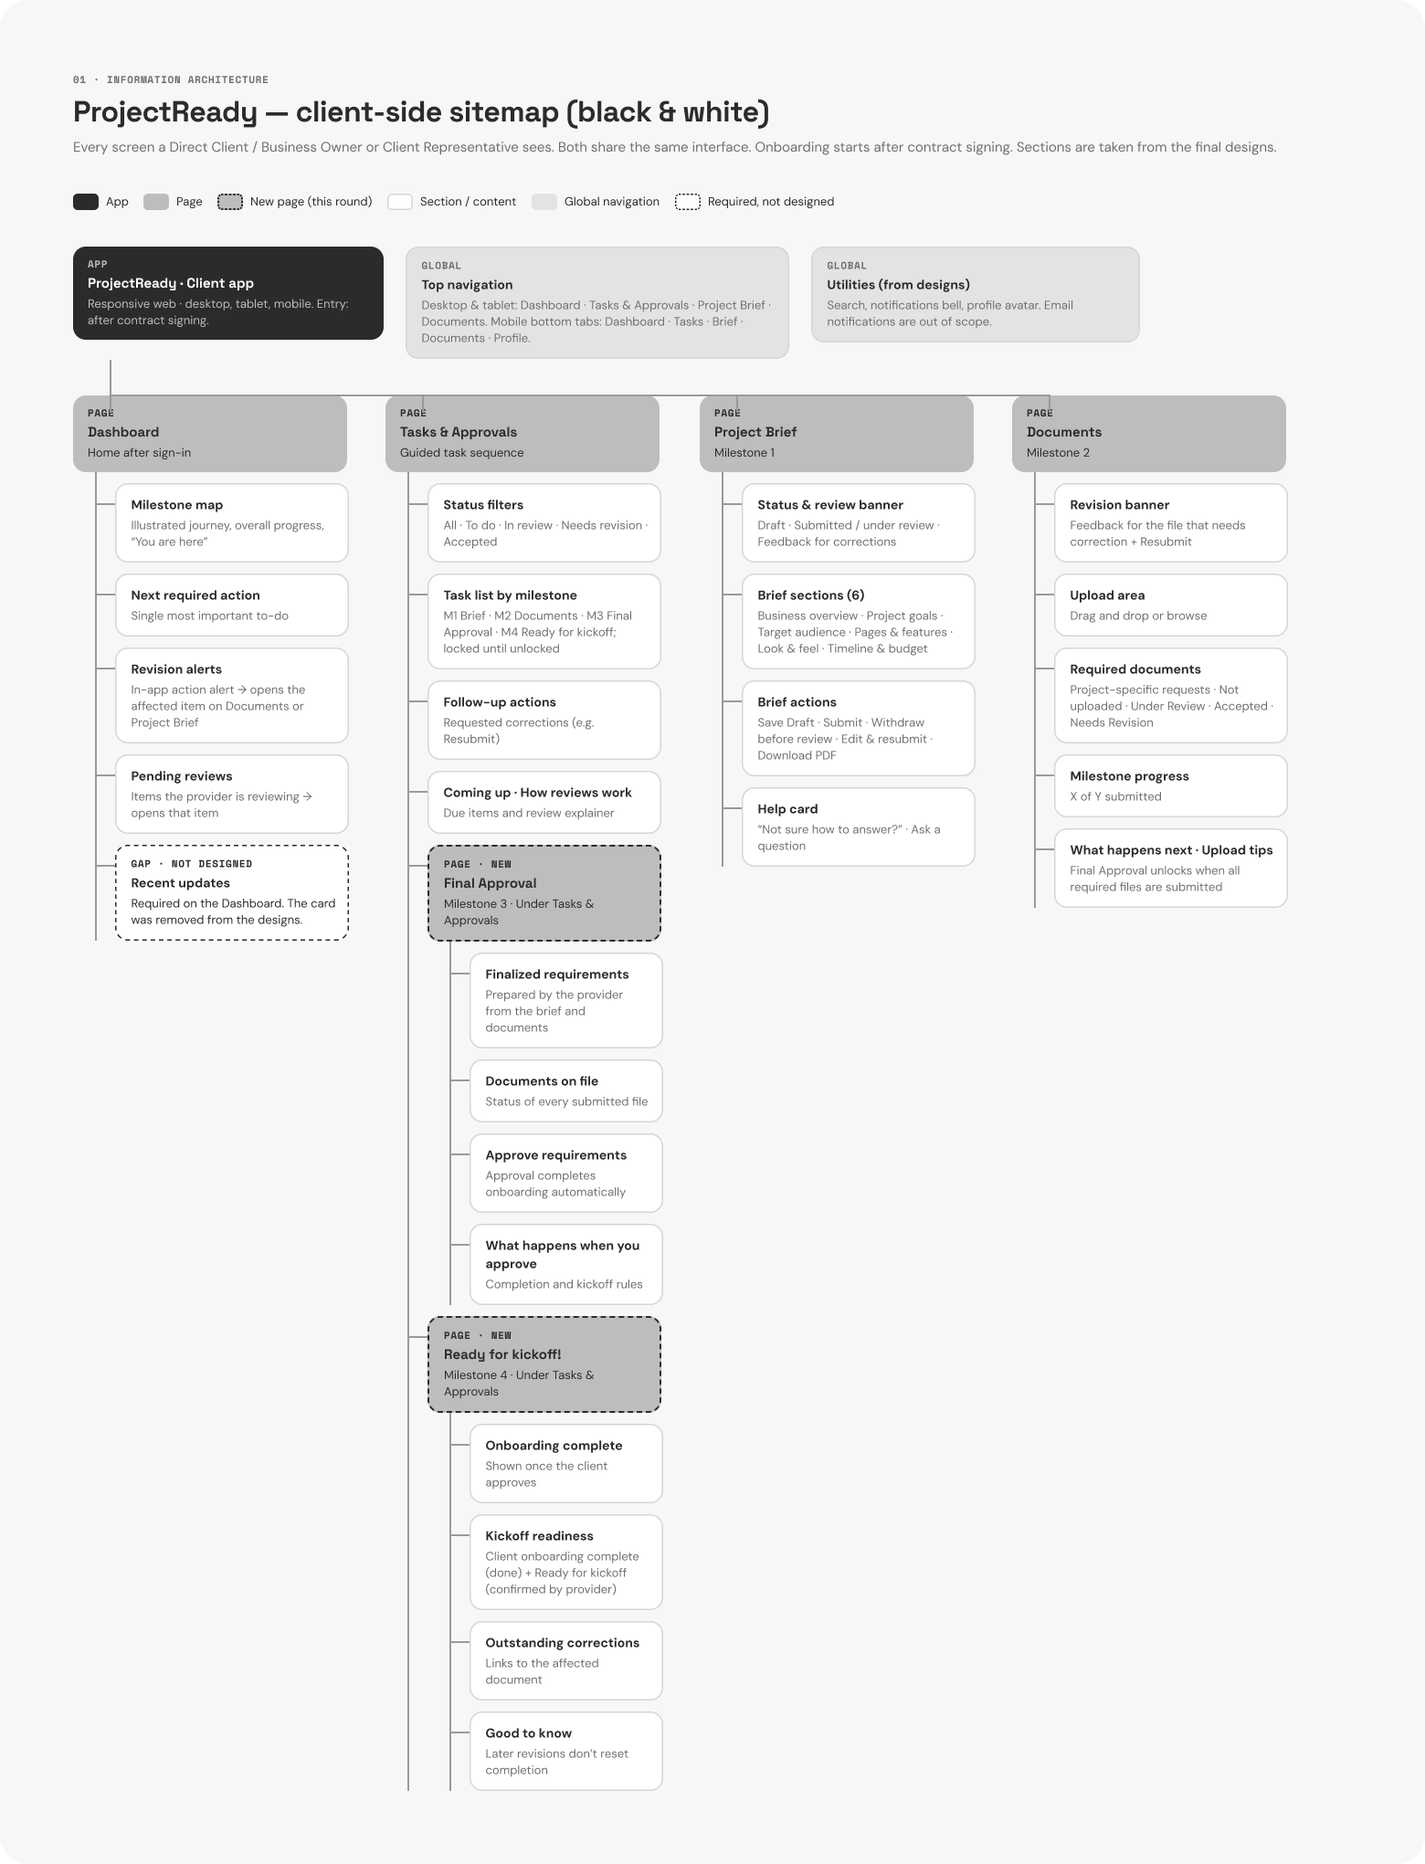
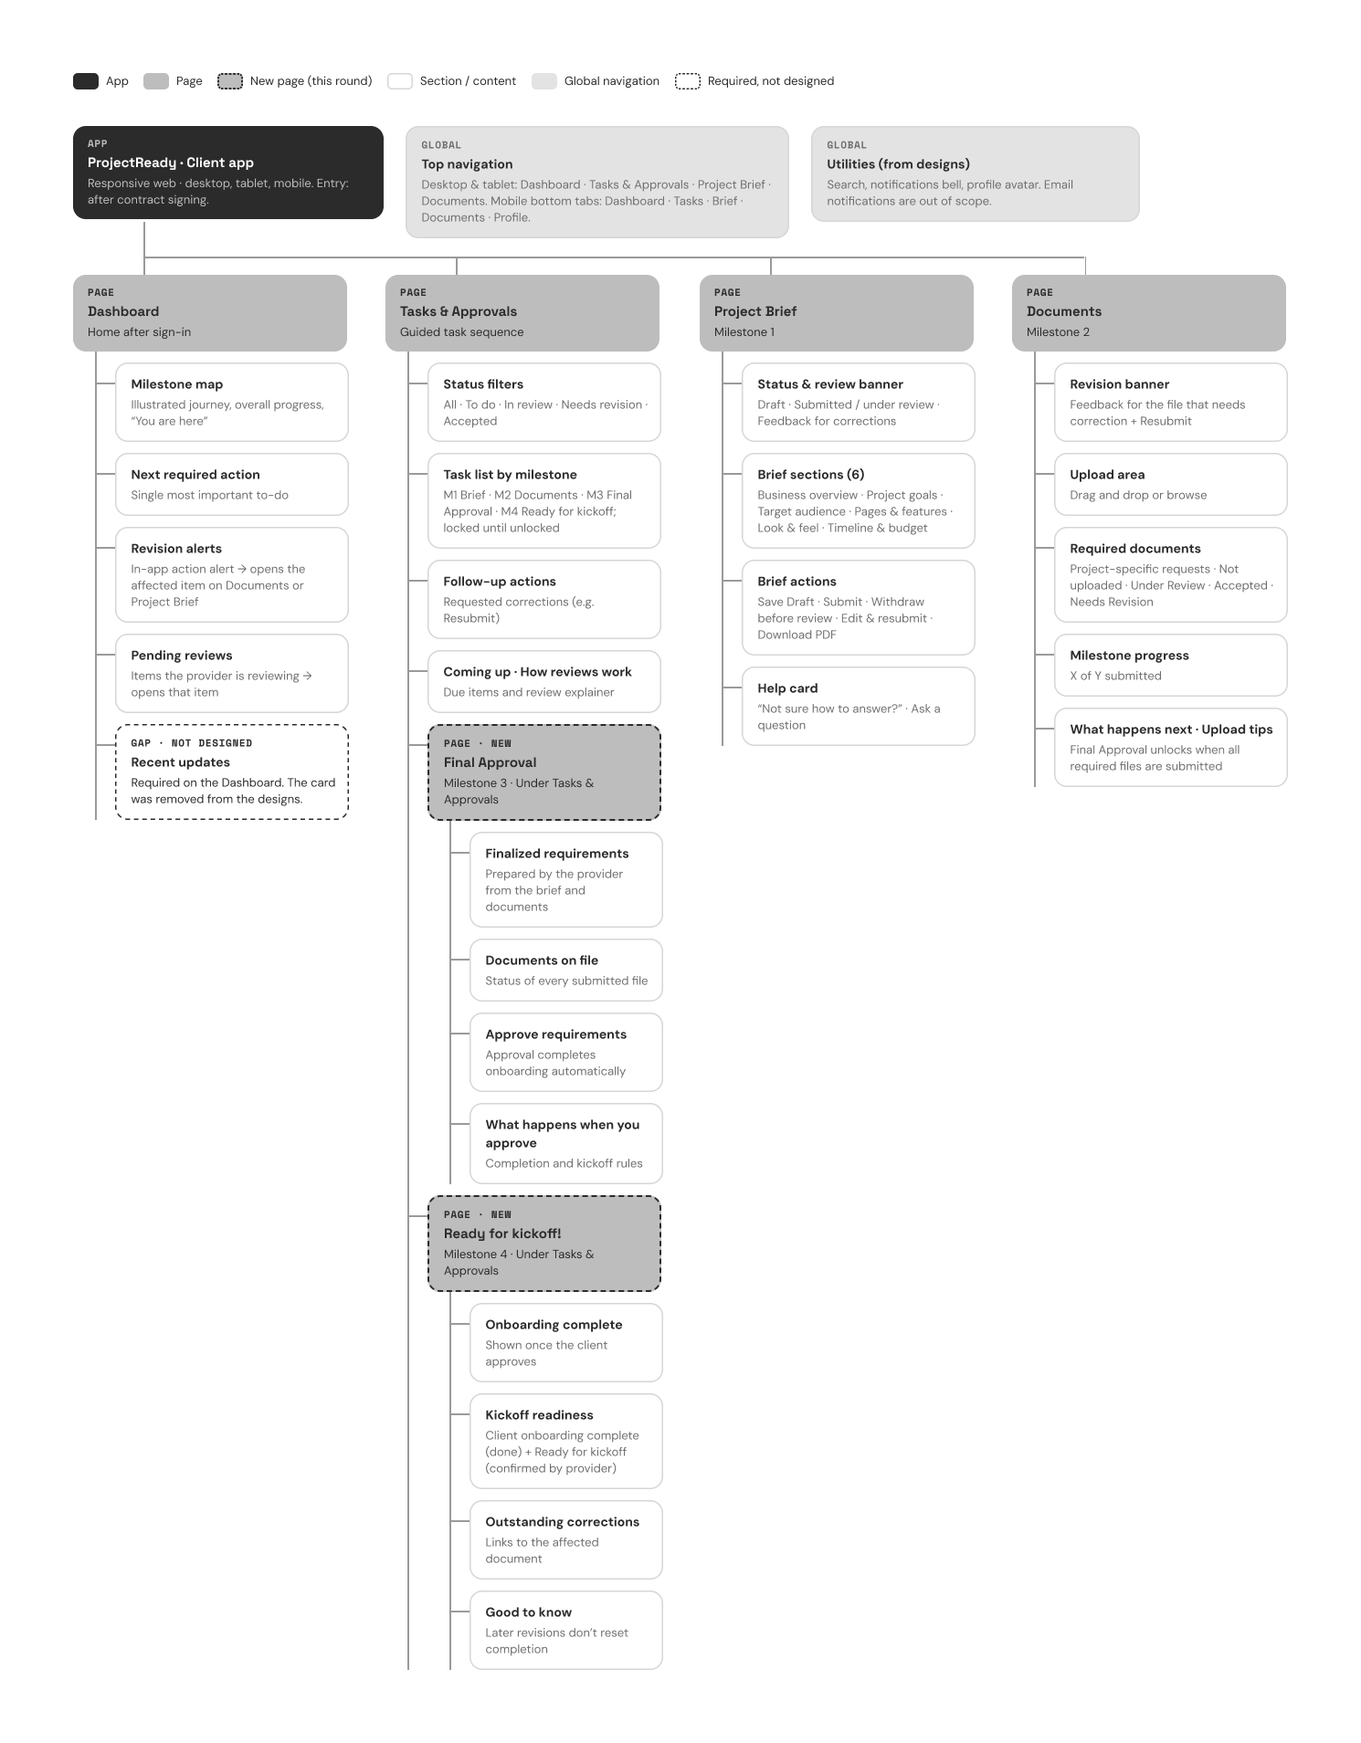
style: update page content, images, and layout

Changed region(s): [[0.0309, 0.0309, 0.957, 0.9581], [0.8336, 0.0618, 0.8953, 0.0927]]

diff --git a/uiuxfolio/pages/casestudy3.html b/uiuxfolio/pages/casestudy3.html
@@ -1,18 +1,15 @@
 <div class="container">
   <!-- Top Row -->
   <div class="row align-items-center mb-5">
-    <div class="col-md-5 hero-text">
+    <div class="col-md-5 col-lg-4 hero-text">
       <a href="#" class="btn btn-outline-secondary mb-3 rounded-0 custom-hover-btn" onclick="location.reload()">←
         Back</a>
-      <h2 class="mt-4">Agrilakal – </br> from the farm, straight to the buyer</h2>
-      <p class="mt-5 mb-5">
-        A farmer-first marketplace. It <span class="text-highlight">connects Philippine growers, buyers, distributors
-          and the government, from harvest listing to verified delivery and payment. </span> The name joins agrikultura
-        (farming) and kalakal (goods, trade).
-
+      <h2 class="mt-4">ProjectReady</h2>
+      <p class="mt-4 mb-5">
+        A client onboarding platform designed to simplify how businesses and clients prepare for new projects. It brings project requirements, document submissions, task management, and approvals into one centralized workspace. Through a  milestone-based journey, clients can track their progress, understand their responsibilities, and complete onboarding with greater clarity and confidence, regardless of the project's nature or complexity.
       </p>
     </div>
-    <div class="col-md-7 text-center">
+    <div class="col-md-7 col-lg-8 text-center">
       <img src="assets/pr-device-mockup.png" class="img-fluid case-image" alt="Case Study Image">
     </div>
   </div>
@@ -54,10 +51,7 @@
     </div>
     <div class="col-12">
       <p>
-        Filipino smallholder farmers often can’t <span class="text-highlight">find reliable buyers before harvest.
-          Produce goes unsold or sells at low farmgate prices.</span> Institutional buyers struggle to find supply and
-        coordinate purchases across locations. Price information is uneven, logistics are fragmented, and there is no
-        trusted record of what was agreed, delivered or paid. </br>
+        Client onboarding often involves multiple tasks, document requests, project requirements, and approvals. When these activities are managed through scattered emails, shared files, and disconnected communication channels, clients may struggle to understand what needs to be completed, what has already been submitted, and what happens next. This lack of structure can lead to confusion, unnecessary follow-ups, and delays before a project can begin.
       </p>
     </div>
   </div>
@@ -76,49 +70,18 @@
     <div class="col-12">
        <p class="section-eyebrow">Primary Users</p>
       <div class="row g-4 mb-5">
-        <div class="col-md-4">
+        <div class="col-md-6">
           <div class="bg-light p-4 h-100">
             <i class="bi bi-flower1 fs-4 d-block mb-3 user-icon" aria-hidden="true"></i>
-            <h5>Farmers</h5>
-            <p class="mb-0">Want to get verified, list harvests before picking, compare offers and get paid. They need
-              simple step-by-step flows in their own language, low-bandwidth support, and LGU help when needed.</p>
+            <h5>Direct Clients</h5>
+            <p class="mb-0">Individuals or business owners who initiate projects and are responsible for providing requirements, submitting documents, and approving project details.</p>
           </div>
         </div>
-        <div class="col-md-4">
+        <div class="col-md-6">
           <div class="bg-light p-4 h-100">
             <i class="bi bi-cart3 fs-4 d-block mb-3 user-icon" aria-hidden="true"></i>
-            <h5>Buyers and wholesalers</h5>
-            <p class="mb-0">Want to find crops by region, volume and date, and to negotiate and manage deliveries. They
-              need verified sellers, a clear record of agreed terms, and a way to raise quality claims.</p>
-          </div>
-        </div>
-        <div class="col-md-4">
-          <div class="bg-light p-4 h-100">
-            <i class="bi bi-truck fs-4 d-block mb-3 user-icon" aria-hidden="true"></i>
-            <h5>Distributors</h5>
-            <p class="mb-0">Want predictable jobs within their area and capacity, with clear pickup details and a way to
-              report breakdowns.</p>
-          </div>
-        </div>
-      </div>
-    </div>
-
-    <!-- Secondary Users -->
-    <div class="col-12">
-      <p class="section-eyebrow">Secondary Users</p>
-      <div class="row g-4">
-        <div class="col-md-4">
-          <div class="bg-light p-4 h-100">
-            <i class="bi bi-bank fs-4 d-block mb-3 user-icon" aria-hidden="true"></i>
-            <h5>DA National and Regional Administrators</h5>
-            <p class="mb-0">Handle verification, disputes and reference prices.</p>
-          </div>
-        </div>
-        <div class="col-md-4">
-          <div class="bg-light p-4 h-100">
-            <i class="bi bi-person-badge fs-4 d-block mb-3 user-icon" aria-hidden="true"></i>
-            <h5>LGU Agriculture Officers</h5>
-            <p class="mb-0">Run local identity checks and assisted onboarding.</p>
+            <h5>Client Representatives</h5>
+            <p class="mb-0">Authorized employees or representatives who manage onboarding tasks, coordinate submissions, and approve requirements on behalf of their organization.</p>
           </div>
         </div>
       </div>
@@ -134,26 +97,9 @@
       <h3 class="mb-3">Goal</h3>
     </div>
     <div class="col-12">
-      <div class="goal-bento mx-auto">
-        <div class="goal-card goal-card-1">
-          <h5>Farmers</h5>
-          <p class="mb-0">Sell more of each harvest, earlier, at prices aligned to the regional reference, and know
-            when they’ve been paid.</p>
-        </div>
-        <div class="goal-card goal-card-2">
-          <h5>Buyers</h5>
-          <p class="mb-0">Find verified supply fast, lock terms in one structured offer, and receive what they ordered
-            on time.</p>
-        </div>
-        <div class="goal-card goal-card-3">
-          <h5>Distributors</h5>
-          <p class="mb-0">Get jobs that fit their area and capacity, with evidence that settles every handover.</p>
-        </div>
-        <div class="goal-card goal-card-4">
-          <h5>DA and LGU</h5>
-          <p class="mb-0">Onboard and assist farmers safely, with every sensitive action scoped and auditable.</p>
-        </div>
-      </div>
+      <p>
+        The goal is to create a guided and intuitive onboarding experience that helps clients complete their responsibilities with minimal confusion. By organizing requirements into manageable milestones, centralizing project information, and providing clear progress indicators, ProjectReady aims to simplify the process, improve transparency, and reduce unnecessary waiting between tasks.
+      </p>
     </div>
   </div>
 
@@ -161,25 +107,13 @@
 
     <!-- Impact ---------------->
     <div class="row py-5 border-bottom align-items-center g-4 g-md-5">
-      <div class="col-md-6">
+      <div class="col-12">
         <!-- <p class="section-eyebrow">Potential</p> -->
         <h3 class="mb-4">
           Impact
         </h3>
         <p>
-        This project produced a complete design package for Agrilakal: an information architecture, a user flow, wireframes,
-        a design guide, a log of key design decisions, and high-fidelity screens for every role. <span
-          class="text-highlight">The impact is still
-          expected rather than measured.</span>
-        </p>
-
-        <p>
-        I see <span class="text-highlight">Agrilakal working best as a government-backed platform,</span> run with the Department
-        of Agriculture and LGUs. It could give smallholders a fairer route to market, publish reference prices people can
-        trust, and cut unsold and wasted harvests. It would also give officials live data on supply, prices and disputes, so
-        they can plan programs and respond faster. To show whether it works, I would track sell-through rate as the north
-        star, alongside time to first qualified offer, on-time fulfilment, payment completion and dispute incidence, with
-        targets set after a pilot baseline.
+          This project proposes a more organized and approachable onboarding experience that could reduce administrative friction, improve communication, and help clients complete requirements more confidently. For businesses and project providers, it could support more consistent information gathering, clearer visibility into pending submissions, and smoother project preparation. These are expected benefits of the proposed design rather than measured outcomes.
         </p>
       </div>
     </div>
@@ -194,35 +128,8 @@
       </h3>
     </div>
     <div class="col-12">
-      <p> I didn’t run primary user research for this project. <span class="text-highlight">I based the problem, users
-          and flows on secondary
-          research:</span> published reports and articles on Philippine smallholder farming, farmgate pricing,
-        post-harvest loss
-        and agricultural logistics. 
-        <button class="expand-toggle" type="button" data-bs-toggle="collapse" data-bs-target="#rootcauseList"
-          aria-expanded="false" aria-controls="rootcauseList">
-          Five root causes stood out.
-          <span class="expand-icon"></span>
-        </button>
-        </br>
-        </p>
-      
-      <!-- list expand -->
-      <div class="collapse" id="rootcauseList">
-        <ul class="list-line">
-          <li><span class="fw-semibold">Unsold harvests.</span> Supply becomes visible to buyers too late, often only at
-            or after harvest.</li>
-          <li><span class="fw-semibold">Low farmgate prices.</span> Farmers have weak negotiating power and few market
-            channels.</li>
-          <li><span class="fw-semibold">Information asymmetry.</span> There is no shared, approved price reference, so
-            middlemen hold the market
-            information.</li>
-          <li><span class="fw-semibold">Fragmented logistics.</span> Transport is arranged ad hoc, and delivery status
-            relies on trust, not evidence.</li>
-          <li><span class="fw-semibold">Hard-to-find supply.</span> Buyers can’t reliably locate volume across provinces.
-          </li>
-        </ul>
-      </div>
+      <p> ProjectReady was developed as a self-initiated design concept using scenario-based workflow analysis and assumptions about common client onboarding challenges. The exploration focused on understanding how clients receive instructions, submit required information, monitor progress, and respond to feedback. This highlighted the importance of clear task guidance, centralized information, visible progress, and allowing clients to continue their onboarding activities while earlier submissions are under review. These assumptions would require validation through future user research and usability testing.
+      </p>
 
     </div>
   </div>
@@ -233,15 +140,14 @@
     <div class="col-md-6">
       <p class="section-eyebrow">Process</p>
       <h3 class="mb-4">Ideation</h3>
-      <!-- Information Architecture ------------->
+
+      <!-- User Journey Map ------------->
       <p>
-        The project began with establishing a clear <span class="text-highlight">information architecture</span> to
-        define the structure and flow of content
-        across the platform. This helped outline key sections and ensure intuitive navigation.
+        The project starts with understanding the client's onboarding journey and translating it into a structured, easy-to-follow experience. From mapping user interactions to exploring interface layouts, each stage helped shape a more intuitive onboarding process.
       </p>
     </div>
     <div class="col-md-6">
-      <img src="assets/pr-IA.png" class="img-fluid section-image" alt="ProjectReady Information Architecture">
+      <img src="assets/pr-user-journey-map.png" class="img-fluid section-image" alt="ProjectReady User Journey Map">
     </div>
 
     <div class="col-12">
@@ -262,17 +168,18 @@
       <!-- Hidden content --------->
      <div class="collapse mt-3" id="moreContent">
 
-        <!-- User Flow ------------------->
+        <!-- Information Architecture ------------------->
         <p class="mt-4">
-          Every role enters through the same onboarding and shares global elements: search, language, notifications and
-          feedback states. After sign-in, each role lands on its own home, with navigation built around its main job.
-          </br></br>
+          The information architecture organizes the platform into four main sections: Dashboard, Tasks & Approvals, Project Brief, and Documents. This structure keeps essential features accessible while simplifying navigation.
+        </p>
 
-          Next, I mapped the end-to-end <span class="text-highlight">user flow</span>, from a farmer’s harvest to a
-          completed order, including key decision points involving farmers, buyers, the system, and distributors. This
-          helped establish two important rules: an order is only considered complete once both delivery and payment are
-          confirmed, and distributors cannot decline assigned jobs. Instead, they report any issues or exceptions so
-          dispatch can reassign the job.
+        <div class="overflow-auto mt-3">
+          <img src="assets/pr-IA.png" class="img-fluid" alt="Information Architecture Diagram">
+        </div>
+
+
+        <p class="mt-4">
+          The user flows outline how clients complete onboarding tasks, submit requirements, and respond to revisions. The process allows clients to move forward after submission without waiting for provider review, while keeping previously completed milestones accessible.
         </p>
 
         <div class="overflow-auto mt-3">
@@ -304,6 +211,9 @@
 
 
         <!-- Mid-Fidelity Wireframes  ---------------->
+        <p class="mt-4">
+          The initial layouts are refined with clearer content hierarchy, improved spacing, and more defined interface components, establishing the foundation for the final visual design.
+        </p>
         <!-- DASHBOARD -->
         <div class="mt-4 mb-4">
           <h5 class="mb-3">Dashboard</h5>
@@ -371,16 +281,20 @@
           Brand Identity
         </h3>
       </div>
+      <div class="col-12">
+        <p>
+          ProjectReady treats client onboarding as a journey through space: a calm, friendly experience that helps nontechnical clients see where they are and what comes next. The identity balances that playful theme with a restrained, premium interface, so the product feels approachable without feeling childish.
+        </p>
+      </div>
       <div class="col-md-6 mb-3">
         <p>
-          Agrilakal joins two everyday Filipino words, <span class="text-highlight">agrikultura (farming) and kalakal (goods, trade): the trade of what farmers
-          grow.</span> Its tagline, Mula sa sakahan, diretso sa mamimili (“from the farm, straight to the buyer”), reflects the product’s
-          core promise of fairer, more transparent sales.
+          Logo — Quiet Luxury
+The symbol is a single orbit with one mustard point sitting at 45°, representing progress along a path shown with almost nothing. It pairs with a Manrope Medium wordmark set in caps and tracked wide (+22%) for a quiet, confident tone. Mustard is used only for the point, and the lockup works on light, warm canvas, and deep-space backgrounds.
         </p>
       </div>
 
       <div class="col-md-6 mb-3 d-grid gap-3">
-        <img src="assets/agri-logo.png" class="img-fluid w-100" alt="Agrilakal logo">
+        <img src="assets/pr-logo.png" class="img-fluid w-100" alt="ProjectReady logo">
       </div>
 
       <div class="col-md-6 mb-3">
@@ -388,21 +302,21 @@
           <span class="text-highlight">The visual identity is a field at dusk.</span> Headers fade from a pale sky into deep field green, with mustard reserved for
           the one main action on each screen. Montserrat keeps text readable on low-end phones, and a single Cormorant Garamond
           Italic accent adds a human touch. The voice is plain and local, using words like “Walang available na tagahatid sa
-          ngayon” (“No distributor available right now”) instead of error codes. Together, these make Agrilakal feel warm,
+          ngayon” (“No distributor available right now”) instead of error codes. Together, these make prlakal feel warm,
           trustworthy and built for the farmers it serves.
         </p>
       </div>
 
       <div class="col-md-6 mb-3 d-grid gap-3">
-        <img src="assets/agri-brand-principles.png" class="img-fluid w-100" alt="Agrilakal brand principles">
+        <img src="assets/pr-brand-principles.png" class="img-fluid w-100" alt="prlakal brand principles">
       </div>
 
       <div class="col-md-6 mb-3">
-        <img src="assets/agri-brand-color.png" class="img-fluid w-100" alt="Design Guide Components">
+        <img src="assets/pr-brand-color.png" class="img-fluid w-100" alt="Design Guide Components">
       </div>
       <div class="col-md-6 mb-3">
-        <img src="assets/agri-typography.png" class="img-fluid w-100" alt="Design Guide Logo">
-        <img src="assets/agri-layout-spacing-radius.png" class="img-fluid w-100" alt="Design Guide Logo">
+        <img src="assets/pr-typography.png" class="img-fluid w-100" alt="Design Guide Logo">
+        <img src="assets/pr-layout-spacing-radius.png" class="img-fluid w-100" alt="Design Guide Logo">
       </div>
 
       <div class="col-12">
@@ -420,16 +334,16 @@
         <div class="collapse mt-3" id="moreBrand">
           <div class="row">
             <div class="col-md-6 mb-3">
-              <img src="assets/agri-feedback-loading-emptystates.png" class="img-fluid w-100" alt="Design Guide Logo">
+              <img src="assets/pr-feedback-loading-emptystates.png" class="img-fluid w-100" alt="Design Guide Logo">
             </div>
             <div class="col-md-6 mb-3">
-              <img src="assets/agri-components.png" class="img-fluid w-100" alt="Design Guide Logo">
+              <img src="assets/pr-components.png" class="img-fluid w-100" alt="Design Guide Logo">
             </div>
             <div class="col-md-6 mb-3">
-              <img src="assets/agri-iconography.png" class="img-fluid w-100" alt="Design Guide Logo">
+              <img src="assets/pr-iconography.png" class="img-fluid w-100" alt="Design Guide Logo">
             </div>
             <div class="col-md-6 mb-3">
-              <img src="assets/agri-voice-language.png" class="img-fluid w-100" alt="Design Guide Logo">
+              <img src="assets/pr-voice-language.png" class="img-fluid w-100" alt="Design Guide Logo">
             </div>
           </div>
         </div>

diff --git a/uiuxfolio/styles/casestudy3.css b/uiuxfolio/styles/casestudy3.css
@@ -1,8 +1,8 @@
-/* .case-image {
+.case-image {
   width: 100%;
   max-width: 800px;
   height: auto;
-} */
+}
 
 .small-info-row img {
   display: block;
